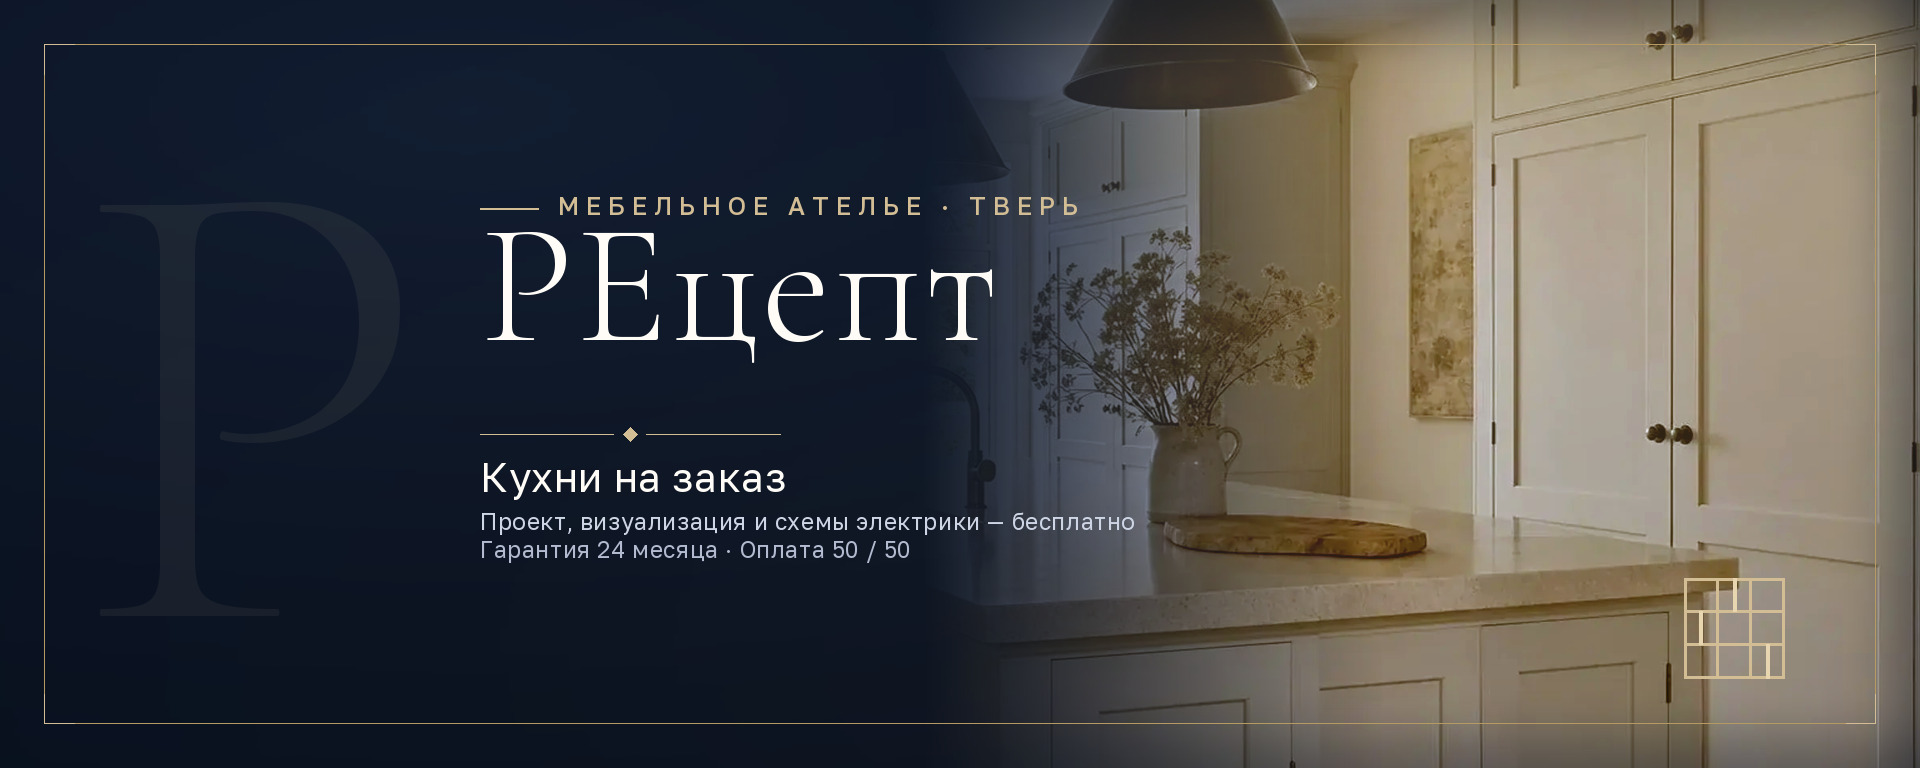
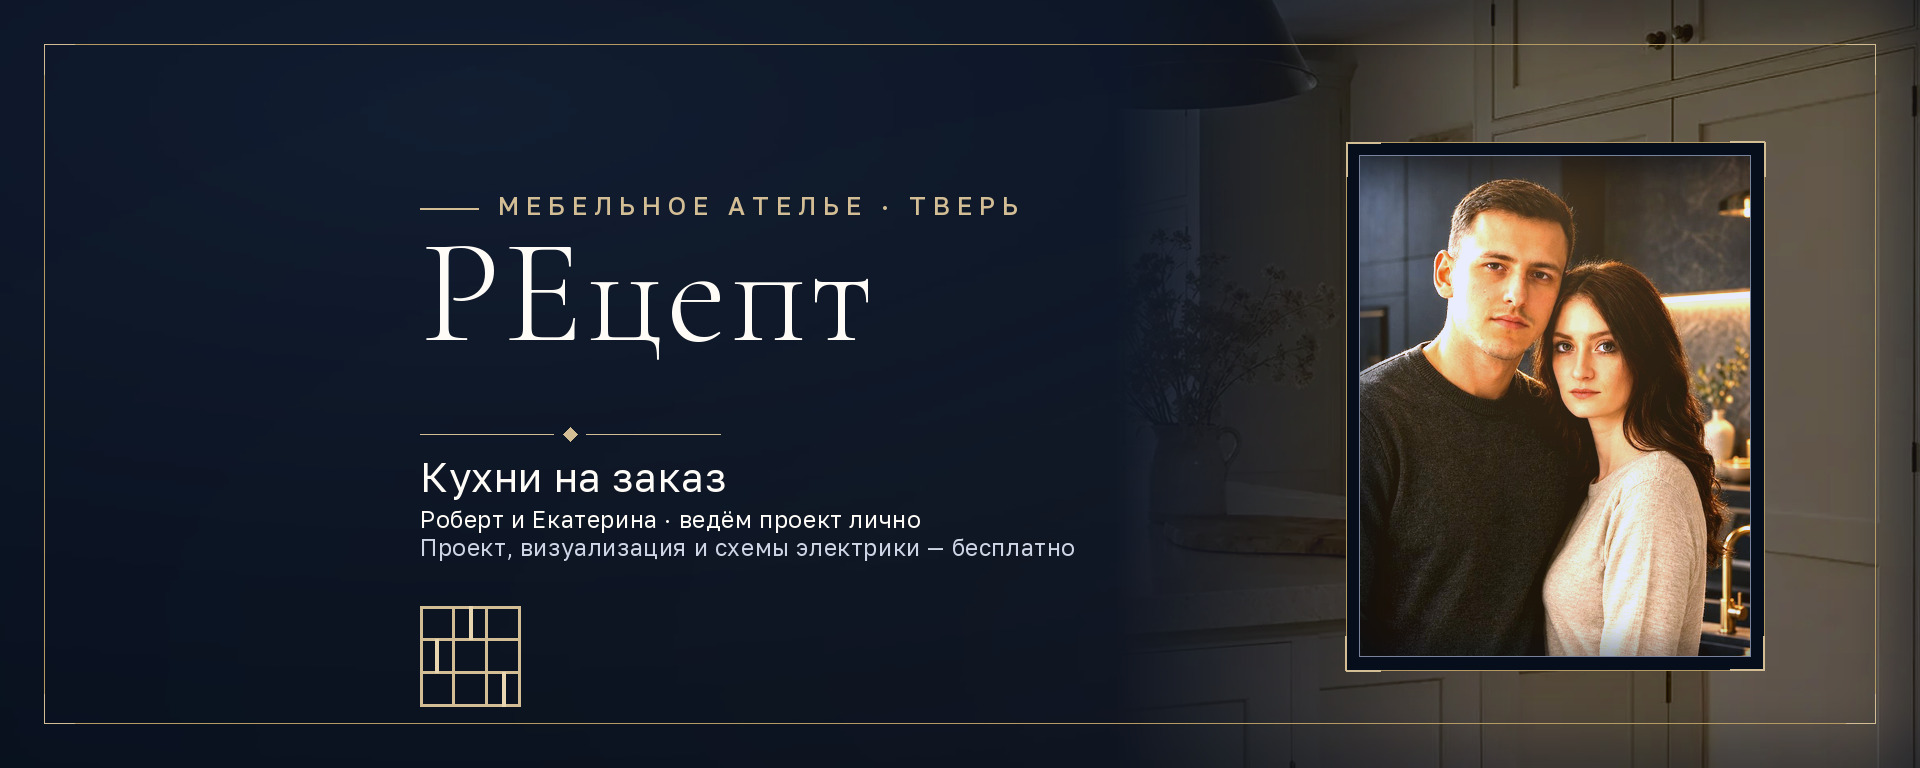
Обложка: вы в центре композиции
Сообщество — личный бренд, поэтому Роберт и Екатерина появляются
на главной обложке: ваш портрет вклеен справа как пластина в тёмном
паспарту с золотым волосяным кантом и уголками-метками. Кухня
остаётся фоном и читается справа и снизу от пластины.

Новый кадр сделан по вашему портрету с сайта — faces 115 по яркости,
пластина 94, поле под текстом 37, то есть слова остаются на глубоком
поле. В подписи добавлено «Роберт и Екатерина · ведём проект лично».

Знак переехал из правого нижнего угла в левый: там он больше не
перекрывается пластиной. Пластина вписана в мобильную обрезку —
правый край 1764 из 1780 видимых.

diff --git a/tools/make_pack.py b/tools/make_pack.py
@@ -386,20 +386,40 @@ PHONE = '+7 (910) 537-89-91'
 def make_cover():
     print('01 · Главная обложка')
     w, h = 1920, 768
-    x_text = 480
+    x_text = 420
 
     base = ink_field((w, h))
-    snap = photo('kitchens/kitchen-11@2x.webp', (w, h), bright=1.04, focus=(0.66, 0.45))
-    snap = grade(snap, contrast=1.18, color=1.1)
-    snap = warm_glow(snap, cx=0.62, cy=0.1, color=(255, 208, 146), strength=0.30, falloff=2.2)
-    snap = vignette(snap, strength=0.24)
-    base.paste(snap, (0, 0), fade_mask((w, h), start=0.48, end=0.72, power=1.1))
 
-    # крупная буква в подложке: читается только как фактура поля
-    mark_layer = watermark(w, h, 'display-light', 660, GOLD_LIGHT, 16, center=(0.13, 0.52))
-    base.paste(mark_layer, (0, 0), mark_layer)
+    # кухня остаётся фоном: приглушённая, вплавляется в поле слева направо
+    snap = photo('kitchens/kitchen-11@2x.webp', (w, h), bright=0.62, focus=(0.62, 0.45))
+    snap = grade(snap, contrast=1.14, color=1.06)
+    snap = vignette(snap, strength=0.34)
+    base.paste(snap, (0, 0), fade_mask((w, h), start=0.58, end=0.80, power=1.0))
+
+    # вы — вклеенная пластина справа: тёмное паспарту и золотой волосяной кант
+    pw, ph = 390, 500
+    px, py = 1360, 156
+    mount = 14
+    plate = photo('team/new/rob-kate-novye.jpg', (pw, ph), bright=1.5, focus=(0.5, 0.26))
+    plate = grade(plate, contrast=1.16, color=1.08)
+    plate = warm_glow(plate, cx=0.5, cy=0.12, color=(255, 206, 140), strength=0.20, falloff=2.4)
+    plate = vignette(plate, strength=0.14)
+    base.paste(Image.new('RGB', (pw + mount * 2, ph + mount * 2), ABYSS),
+               (px - mount, py - mount))
+    base.paste(plate, (px, py))
 
     d = ImageDraw.Draw(base)
+
+    # кант пластины: золото по внешнему краю, холодная нить по самому кадру
+    d.rectangle([px - mount, py - mount, px + pw + mount, py + ph + mount],
+                outline=GOLDLINE, width=1)
+    d.rectangle([px - 1, py - 1, px + pw, py + ph], outline=(120, 132, 158), width=1)
+    for cxp, cyp, sx, sy in ((px - mount, py - mount, 1, 1),
+                             (px + pw + mount, py - mount, -1, 1),
+                             (px - mount, py + ph + mount, 1, -1),
+                             (px + pw + mount, py + ph + mount, -1, -1)):
+        d.line([cxp, cyp, cxp + sx * 34, cyp], fill=GOLDSOFT, width=2)
+        d.line([cxp, cyp, cxp, cyp + sy * 34], fill=GOLDSOFT, width=2)
 
     inner_frame(d, w, h, 44, GOLDLINE, width=1)
     corner_marks(d, w, h, 44, 30, GOLDSOFT, width=1)
@@ -409,21 +429,18 @@ def make_cover():
     draw_text(d, (x_text + 78, 215), 'МЕБЕЛЬНОЕ АТЕЛЬЕ · ТВЕРЬ', 'sans-medium', 25,
               GOLD_ON_DARK, tracking=7)
 
-    draw_text(d, (x_text, 340), BRAND, 'display-light', 172, CREAM, tracking=3)
+    draw_text(d, (x_text, 340), BRAND, 'display-light', 150, CREAM, tracking=3)
 
     ornament_rule(d, x_text, 434, 300, GOLD_ON_DARK, diamond=7)
 
     draw_text(d, (x_text, 492), 'Кухни на заказ', 'sans', 40, CREAM, tracking=0.6)
-
-    draw_text(d, (x_text, 530),
-              'Проект, визуализация и схемы электрики — бесплатно',
+    draw_text(d, (x_text, 528), 'Роберт и Екатерина · ведём проект лично',
+              'sans', 23, CREAM, tracking=0.6)
+    draw_text(d, (x_text, 556), 'Проект, визуализация и схемы электрики — бесплатно',
               'sans', 23, CREAM_DIM, tracking=0.6)
-    draw_text(d, (x_text, 558),
-              'Гарантия 24 месяца · Оплата 50 / 50',
-              'sans', 23, CREAM_SOFT, tracking=0.6)
 
-    # знак в правом нижнем углу, в зоне фотографии
-    draw_mark(d, (w - 236, h - 190, w - 136, h - 90), color=GOLDSOFT, accent=GOLD_LIGHT, lw=3)
+    # знак справа, в зоне фотографии
+    draw_mark(d, (x_text, 606, x_text + 100, 706), color=GOLDSOFT, accent=GOLD_LIGHT, lw=3)
 
     save(base, os.path.join(OUT, '01-oblozhka', 'oblozhka-1920x768.jpg'))
 
@@ -436,7 +453,6 @@ def make_cover():
     dd.rectangle([1460, 0, w, h], fill=(255, 80, 80, 38))
     dd.rectangle([460, 130, 1460, 568], outline=(211, 189, 149, 170), width=2)
     save(check, os.path.join(OUT, '01-oblozhka', '_proverka-bezopasnoi-zony.jpg'))
-
 
 # ==================================================================
 # 02 · ЖИВАЯ ОБЛОЖКА 1080×1920 (до 5 слайдов)
